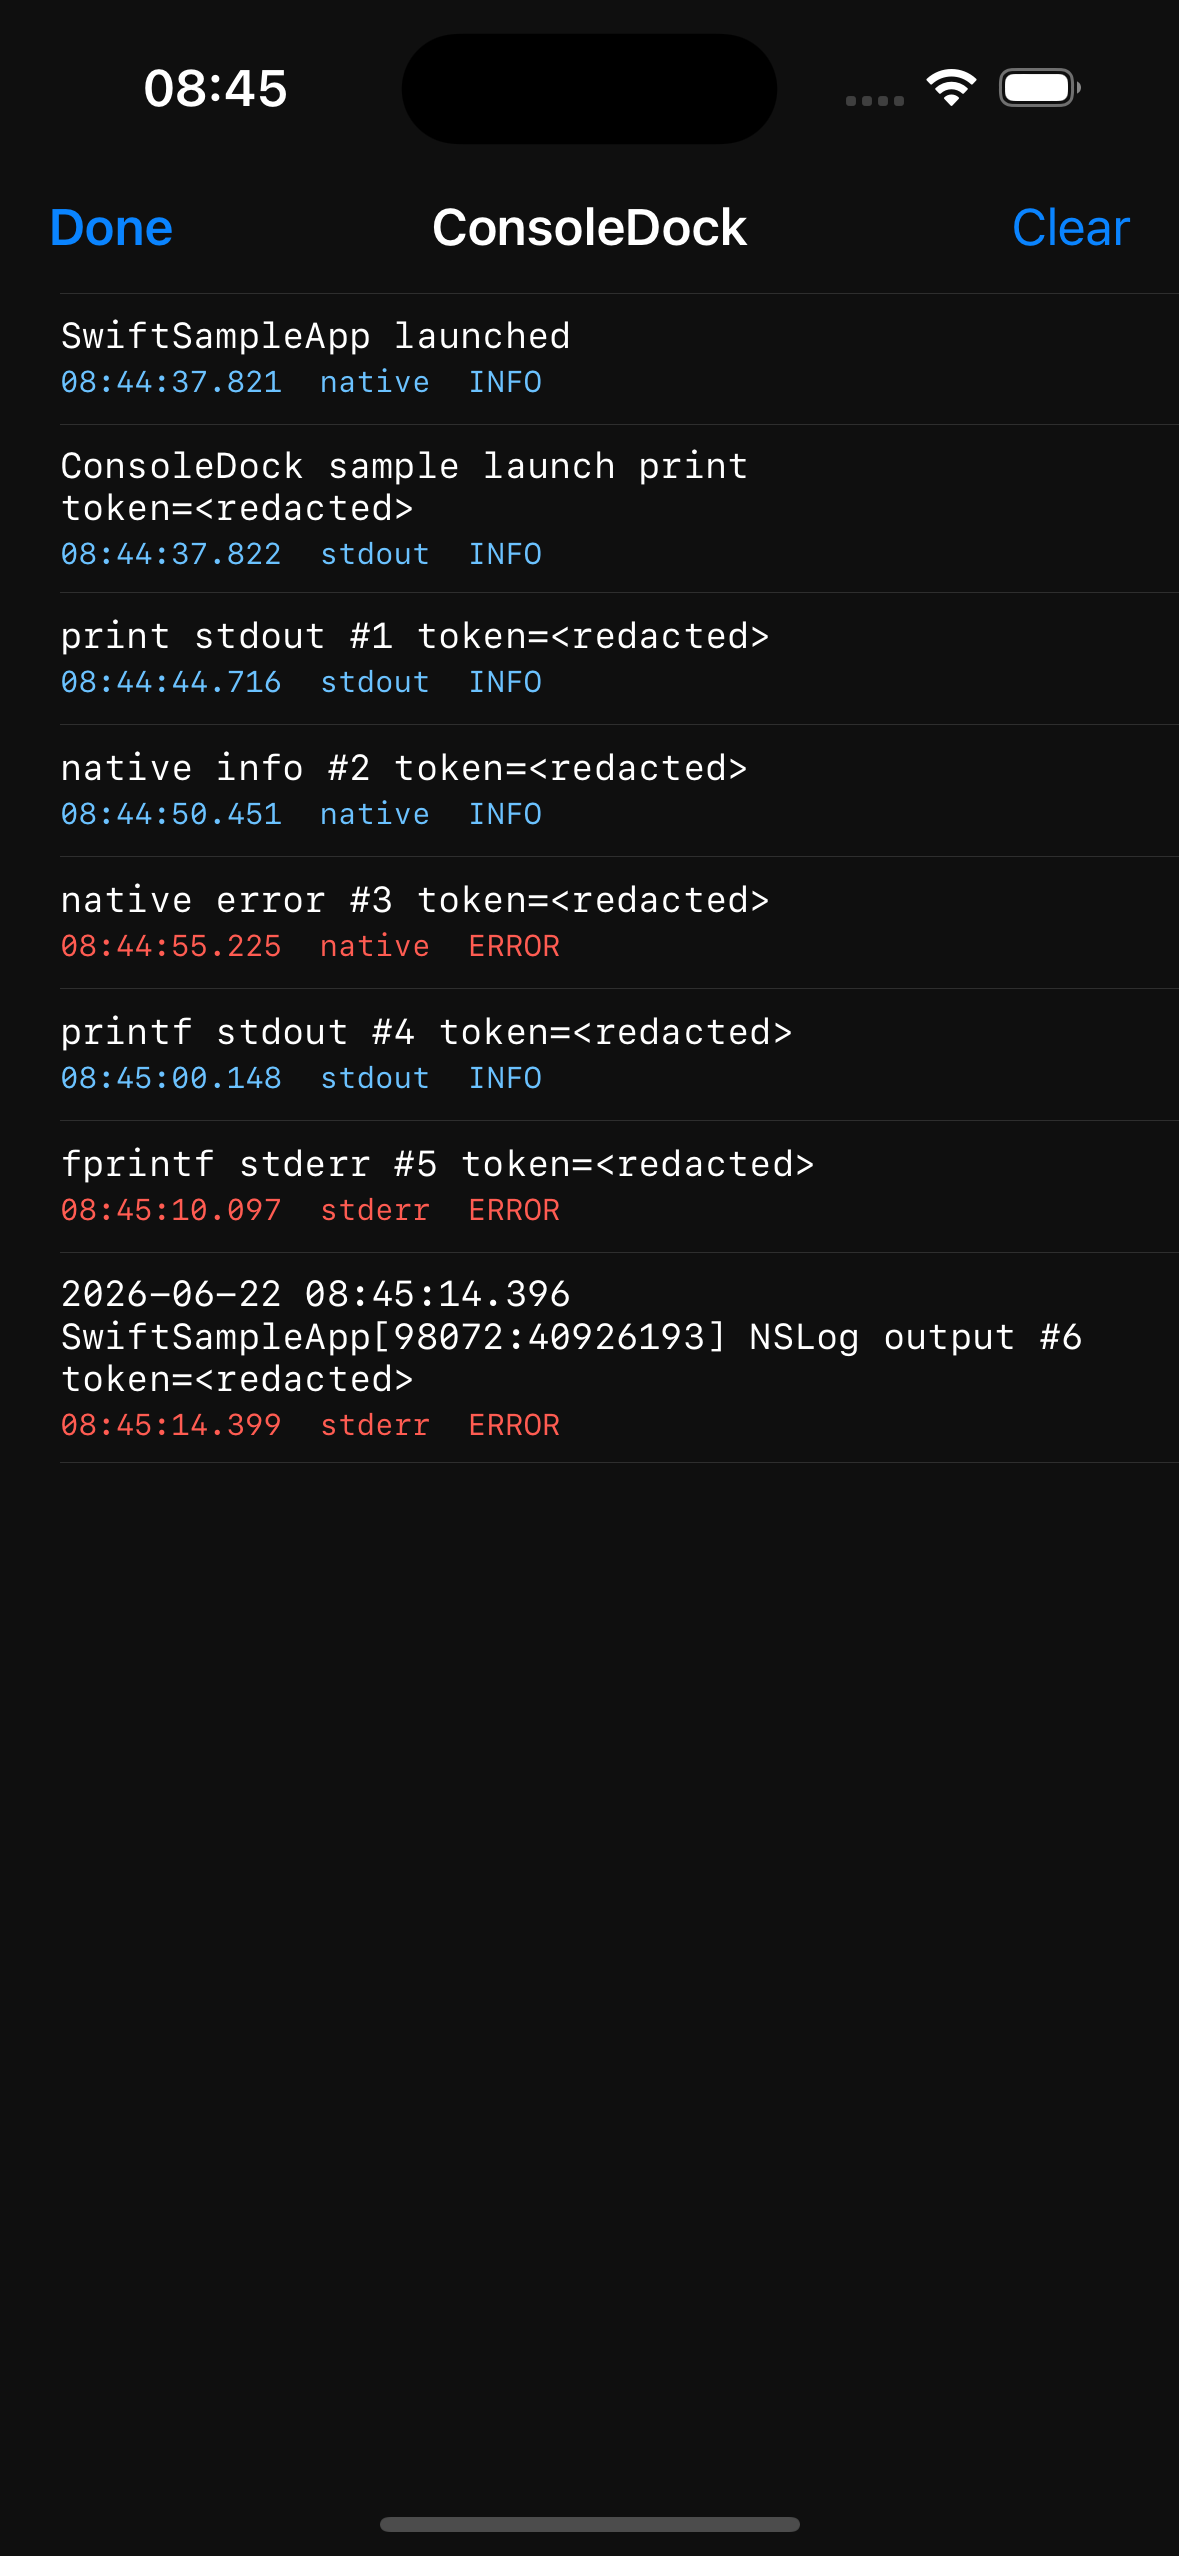
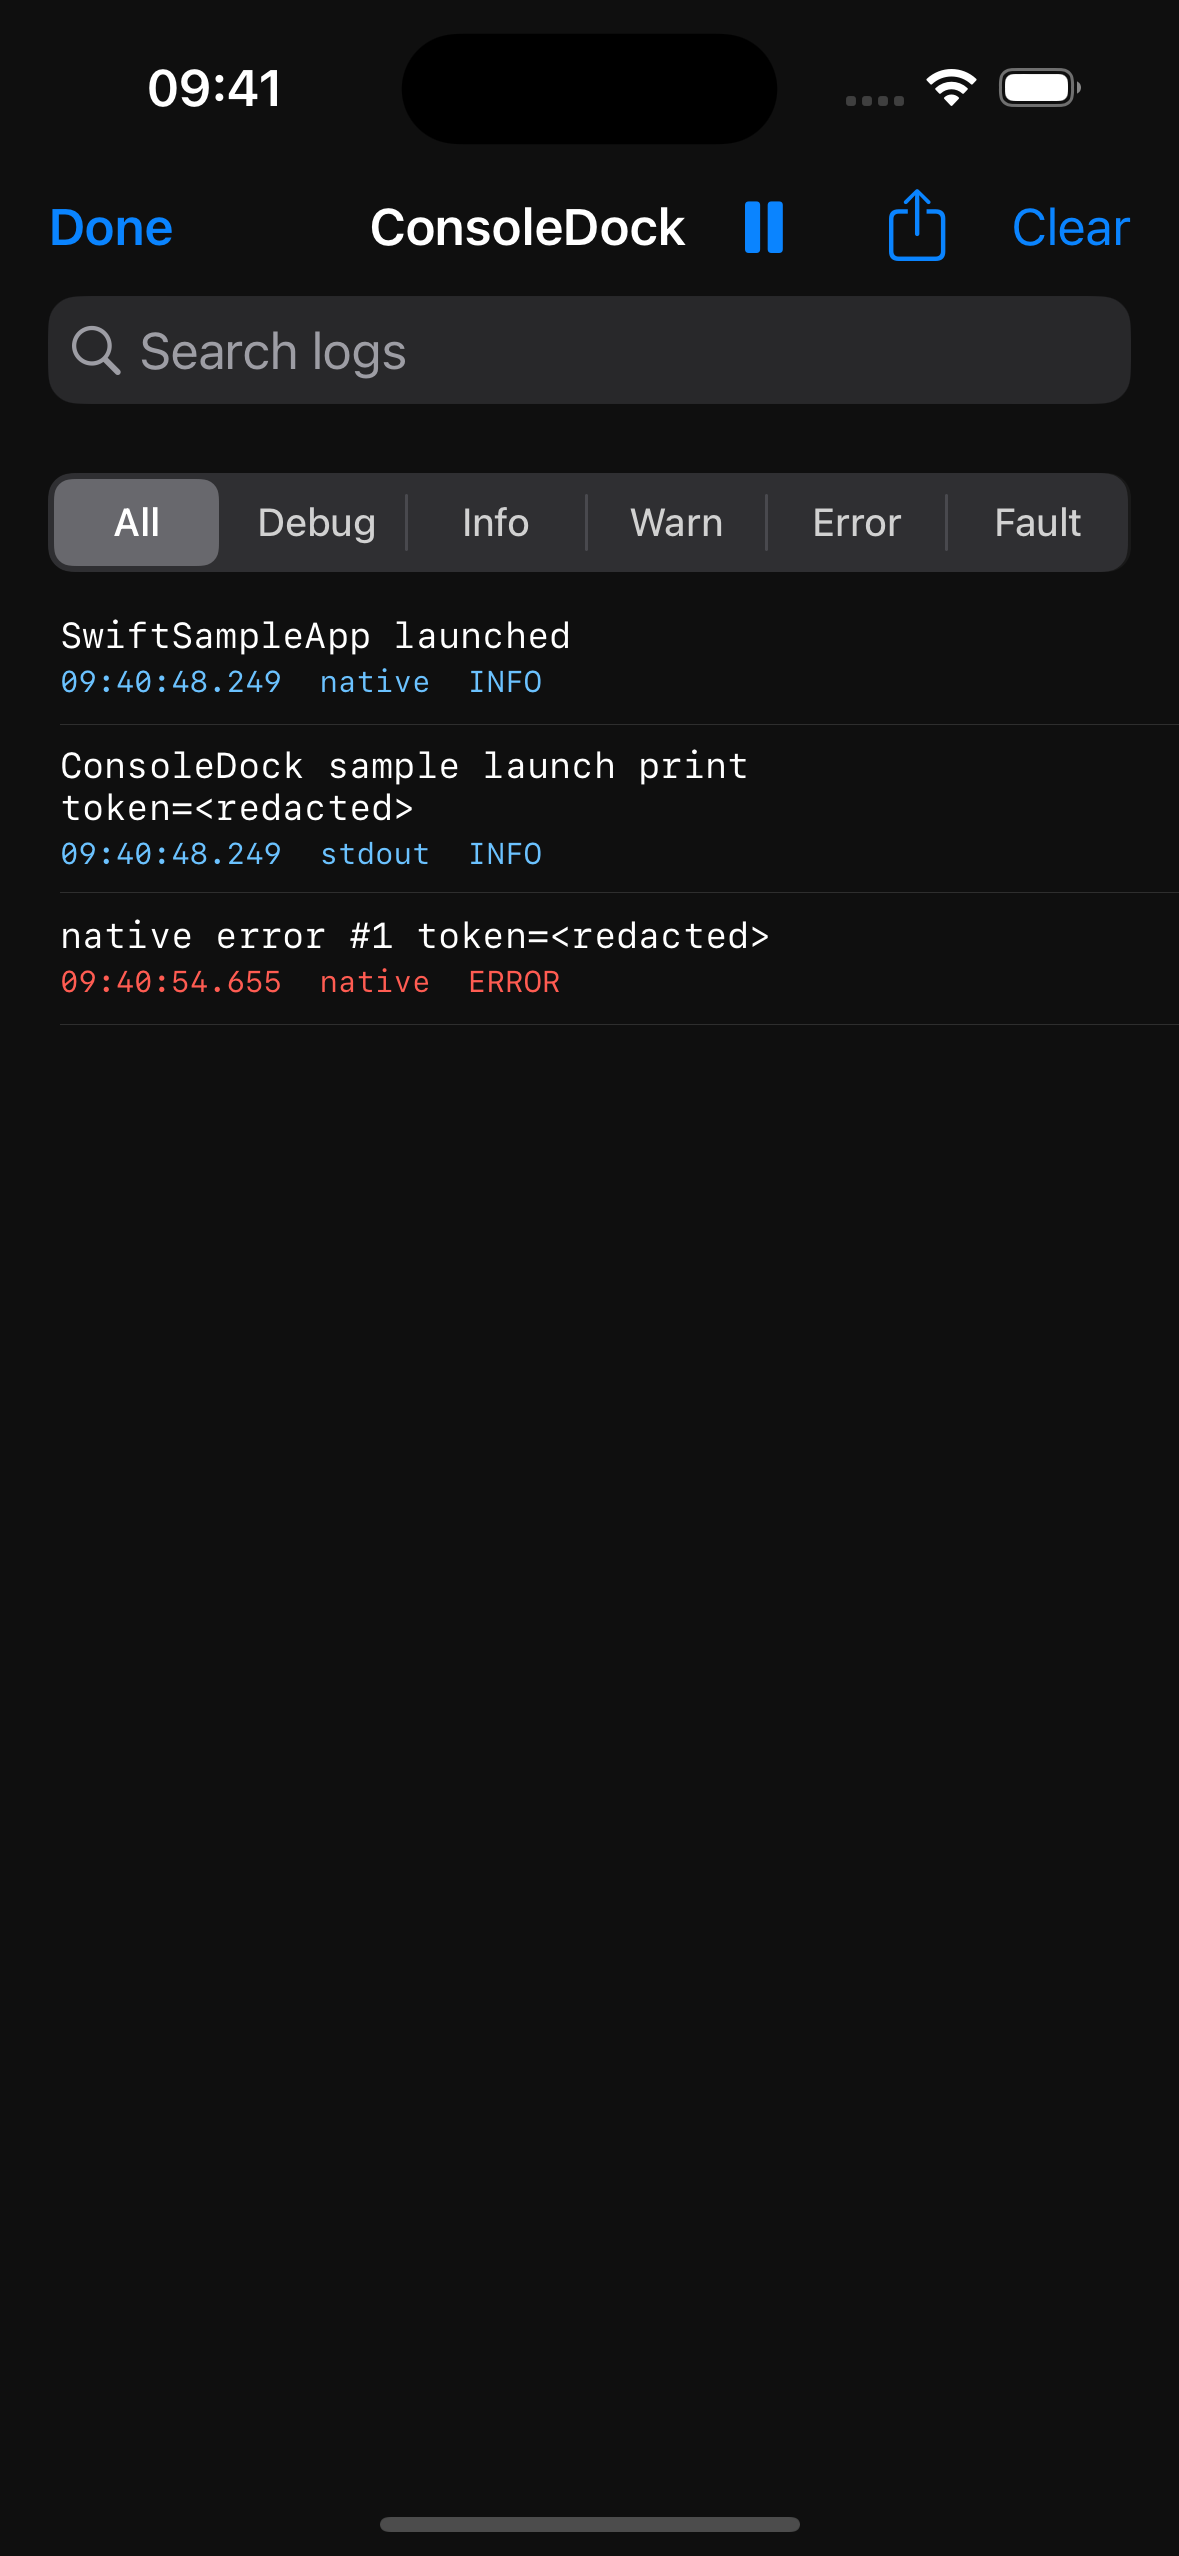
feat: filter console entries by level

diff --git a/Tests/ConsoleDockTests/ConsoleDockTests.swift b/Tests/ConsoleDockTests/ConsoleDockTests.swift
@@ -170,7 +170,13 @@ final class ConsoleDockTests: XCTestCase {
 
         let filtered = ConsoleDockEntryFilter.filteredEntries(entries, query: "  ")
 
-        XCTAssertEqual(filtered.map(\.message), ["Native login succeeded", "stdout response", "stderr network failure"])
+        XCTAssertEqual(filtered.map(\.message), [
+            "Native login succeeded",
+            "stdout response",
+            "stderr network failure",
+            "cache warning",
+            "fatal fault"
+        ])
     }
 
     func testEntryFilterMatchesMessageLevelAndSourceCaseInsensitively() {
@@ -203,6 +209,46 @@ final class ConsoleDockTests: XCTestCase {
         )
     }
 
+    func testEntryFilterRestrictsLevelScope() {
+        let entries = filterFixtureEntries()
+
+        XCTAssertEqual(
+            ConsoleDockEntryFilter.filteredEntries(entries, query: "", levelScope: .warning).map(\.message),
+            ["cache warning"]
+        )
+        XCTAssertEqual(
+            ConsoleDockEntryFilter.filteredEntries(entries, query: "", levelScope: .fault).map(\.message),
+            ["fatal fault"]
+        )
+        XCTAssertEqual(
+            ConsoleDockEntryFilter.filteredEntries(entries, query: "network", levelScope: .debug).map(\.message),
+            []
+        )
+    }
+
+    func testEntryFilterCombinesQuerySourceAndLevelScope() {
+        let entries = filterFixtureEntries()
+
+        XCTAssertEqual(
+            ConsoleDockEntryFilter.filteredEntries(
+                entries,
+                query: "network",
+                sourceScope: .stderr,
+                levelScope: .error
+            ).map(\.message),
+            ["stderr network failure"]
+        )
+        XCTAssertEqual(
+            ConsoleDockEntryFilter.filteredEntries(
+                entries,
+                query: "network",
+                sourceScope: .stderr,
+                levelScope: .warning
+            ).map(\.message),
+            []
+        )
+    }
+
     func testLiveUpdateBufferFreezesDisplayedEntriesWhilePaused() {
         var buffer = ConsoleDockLiveUpdateBuffer()
         let initialEntries = [filterFixtureEntries()[0]]
@@ -231,7 +277,9 @@ final class ConsoleDockTests: XCTestCase {
         XCTAssertEqual(buffer.displayedEntries.map(\.message), [
             "Native login succeeded",
             "stdout response",
-            "stderr network failure"
+            "stderr network failure",
+            "cache warning",
+            "fatal fault"
         ])
     }
 
@@ -363,6 +411,18 @@ private extension ConsoleDockTests {
                 level: .error,
                 source: .stderr,
                 message: "stderr network failure"
+            ),
+            ConsoleDock.LogEntry(
+                timestamp: Date(timeIntervalSince1970: 4),
+                level: .warning,
+                source: .native,
+                message: "cache warning"
+            ),
+            ConsoleDock.LogEntry(
+                timestamp: Date(timeIntervalSince1970: 5),
+                level: .fault,
+                source: .native,
+                message: "fatal fault"
             )
         ]
     }

diff --git a/Sources/ConsoleDock/ConsoleDockEntryFilter.swift b/Sources/ConsoleDock/ConsoleDockEntryFilter.swift
@@ -33,15 +33,59 @@ struct ConsoleDockEntryFilter {
         }
     }
 
+    enum LevelScope: Int, CaseIterable {
+        case all
+        case debug
+        case info
+        case warning
+        case error
+        case fault
+
+        var title: String {
+            switch self {
+            case .all:
+                return "All"
+            case .debug:
+                return "Debug"
+            case .info:
+                return "Info"
+            case .warning:
+                return "Warn"
+            case .error:
+                return "Error"
+            case .fault:
+                return "Fault"
+            }
+        }
+
+        func contains(_ level: ConsoleDock.LogLevel) -> Bool {
+            switch (self, level) {
+            case (.all, _),
+                 (.debug, .debug),
+                 (.info, .info),
+                 (.warning, .warning),
+                 (.error, .error),
+                 (.fault, .fault):
+                return true
+            default:
+                return false
+            }
+        }
+    }
+
     static func filteredEntries(
         _ entries: [ConsoleDock.LogEntry],
         query: String,
-        sourceScope: SourceScope = .all
+        sourceScope: SourceScope = .all,
+        levelScope: LevelScope = .all
     ) -> [ConsoleDock.LogEntry] {
         let trimmedQuery = query.trimmingCharacters(in: .whitespacesAndNewlines)
 
         return entries.filter { entry in
             guard sourceScope.contains(entry.source) else {
+                return false
+            }
+            guard levelScope.contains(entry.level) else {
                 return false
             }
             guard !trimmedQuery.isEmpty else {

diff --git a/Sources/ConsoleDock/ConsoleDockUIController.swift b/Sources/ConsoleDock/ConsoleDockUIController.swift
@@ -205,10 +205,14 @@ private final class ConsoleDockPanelViewController: UIViewController, UITableVie
 
     private let tableView = UITableView(frame: .zero, style: .plain)
     private let searchController = UISearchController(searchResultsController: nil)
+    private let levelSegmentedControl = UISegmentedControl(
+        items: ConsoleDockEntryFilter.LevelScope.allCases.map(\.title)
+    )
     private var liveUpdateBuffer = ConsoleDockLiveUpdateBuffer()
     private var visibleEntries: [ConsoleDock.LogEntry] = []
     private var searchQuery = ""
     private var sourceScope = ConsoleDockEntryFilter.SourceScope.all
+    private var levelScope = ConsoleDockEntryFilter.LevelScope.all
     private var observer: ConsoleDockEntriesObserver?
     private var pauseButton: UIBarButtonItem?
     private var shareButton: UIBarButtonItem?
@@ -225,6 +229,7 @@ private final class ConsoleDockPanelViewController: UIViewController, UITableVie
         view.backgroundColor = UIColor(white: 0.06, alpha: 1)
         configureNavigationItems()
         configureSearchController()
+        configureLevelSegmentedControl()
         configureTableView()
         observer = ConsoleDockEntriesObserver(deliveryQueue: .main) { [weak self] snapshot in
             self?.receive(snapshot: snapshot)
@@ -273,6 +278,16 @@ private final class ConsoleDockPanelViewController: UIViewController, UITableVie
         definesPresentationContext = true
     }
 
+    private func configureLevelSegmentedControl() {
+        levelSegmentedControl.translatesAutoresizingMaskIntoConstraints = false
+        levelSegmentedControl.selectedSegmentIndex = ConsoleDockEntryFilter.LevelScope.all.rawValue
+        levelSegmentedControl.backgroundColor = UIColor(white: 0.1, alpha: 1)
+        levelSegmentedControl.setTitleTextAttributes([.foregroundColor: UIColor.white], for: .selected)
+        levelSegmentedControl.setTitleTextAttributes([.foregroundColor: UIColor(white: 0.82, alpha: 1)], for: .normal)
+        levelSegmentedControl.addTarget(self, action: #selector(levelScopeDidChange), for: .valueChanged)
+        view.addSubview(levelSegmentedControl)
+    }
+
     private func configureTableView() {
         tableView.translatesAutoresizingMaskIntoConstraints = false
         tableView.backgroundColor = UIColor(white: 0.06, alpha: 1)
@@ -284,9 +299,13 @@ private final class ConsoleDockPanelViewController: UIViewController, UITableVie
         view.addSubview(tableView)
 
         NSLayoutConstraint.activate([
+            levelSegmentedControl.leadingAnchor.constraint(equalTo: view.layoutMarginsGuide.leadingAnchor),
+            levelSegmentedControl.trailingAnchor.constraint(equalTo: view.layoutMarginsGuide.trailingAnchor),
+            levelSegmentedControl.topAnchor.constraint(equalTo: view.safeAreaLayoutGuide.topAnchor, constant: 8),
+            levelSegmentedControl.heightAnchor.constraint(equalToConstant: 32),
             tableView.leadingAnchor.constraint(equalTo: view.leadingAnchor),
             tableView.trailingAnchor.constraint(equalTo: view.trailingAnchor),
-            tableView.topAnchor.constraint(equalTo: view.topAnchor),
+            tableView.topAnchor.constraint(equalTo: levelSegmentedControl.bottomAnchor, constant: 8),
             tableView.bottomAnchor.constraint(equalTo: view.bottomAnchor)
         ])
     }
@@ -301,7 +320,8 @@ private final class ConsoleDockPanelViewController: UIViewController, UITableVie
         visibleEntries = ConsoleDockEntryFilter.filteredEntries(
             liveUpdateBuffer.displayedEntries,
             query: searchQuery,
-            sourceScope: sourceScope
+            sourceScope: sourceScope,
+            levelScope: levelScope
         )
         shareButton?.isEnabled = !visibleEntries.isEmpty
         tableView.reloadData()
@@ -366,6 +386,11 @@ private final class ConsoleDockPanelViewController: UIViewController, UITableVie
 
     func searchBar(_ searchBar: UISearchBar, selectedScopeButtonIndexDidChange selectedScope: Int) {
         sourceScope = ConsoleDockEntryFilter.SourceScope(rawValue: selectedScope) ?? .all
+        reloadVisibleEntries(scrollToBottom: false)
+    }
+
+    @objc private func levelScopeDidChange() {
+        levelScope = ConsoleDockEntryFilter.LevelScope(rawValue: levelSegmentedControl.selectedSegmentIndex) ?? .all
         reloadVisibleEntries(scrollToBottom: false)
     }
 

diff --git a/docs/sample-app-walkthrough.md b/docs/sample-app-walkthrough.md
@@ -10,7 +10,7 @@ Use the samples to verify:
 - explicit native logging APIs;
 - `NSLog` output that reaches process stderr;
 - redaction before storage;
-- UIKit floating button, search, source filtering, pause/resume live follow, selected-entry copy, panel refresh, share/export, clear, stop, and restart behavior.
+- UIKit floating button, search, source and level filtering, pause/resume live follow, selected-entry copy, panel refresh, share/export, clear, stop, and restart behavior.
 
 ![ConsoleDock Swift sample console](assets/swift-sample-console.png)
 
@@ -36,13 +36,14 @@ Manual check:
 5. Confirm generated `token=...` values are stored as `token=<redacted>`.
 6. Search for `stderr` or `token` and confirm the visible list filters without changing stored entries.
 7. Change the source scope to `stdout` or `stderr` and confirm only matching entries remain visible.
-8. Tap the pause button, generate another message from the sample, and confirm the visible list does not auto-refresh.
-9. Tap the play/resume button and confirm the panel catches up to the latest stored entries.
-10. Tap a visible log row and confirm the selected redacted entry is copied to the clipboard.
-11. Tap the share button and confirm the system share sheet opens with a plain-text redacted log snapshot for the visible entries.
-12. Tap `Clear` in the panel and confirm the list refreshes.
-13. Tap `Stop ConsoleDock`, generate another message, and confirm it is not stored.
-14. Tap `Start ConsoleDock`, generate another message, and confirm entries resume.
+8. Change the level scope to `Info` or `Error` and confirm only matching entries remain visible.
+9. Tap the pause button, generate another message from the sample, and confirm the visible list does not auto-refresh.
+10. Tap the play/resume button and confirm the panel catches up to the latest stored entries.
+11. Tap a visible log row and confirm the selected redacted entry is copied to the clipboard.
+12. Tap the share button and confirm the system share sheet opens with a plain-text redacted log snapshot for the visible entries.
+13. Tap `Clear` in the panel and confirm the list refreshes.
+14. Tap `Stop ConsoleDock`, generate another message, and confirm it is not stored.
+15. Tap `Start ConsoleDock`, generate another message, and confirm entries resume.
 
 Expected sources:
 
@@ -73,13 +74,14 @@ Manual check:
 5. Confirm generated `token=...` values are stored as `token=<redacted>`.
 6. Search for `stderr` or `token` and confirm the visible list filters without changing stored entries.
 7. Change the source scope to `stdout` or `stderr` and confirm only matching entries remain visible.
-8. Tap the pause button, generate another message from the sample, and confirm the visible list does not auto-refresh.
-9. Tap the play/resume button and confirm the panel catches up to the latest stored entries.
-10. Tap a visible log row and confirm the selected redacted entry is copied to the clipboard.
-11. Tap the share button and confirm the system share sheet opens with a plain-text redacted log snapshot for the visible entries.
-12. Tap `Clear` in the panel and confirm the list refreshes.
-13. Tap `Stop ConsoleDock`, generate another message, and confirm it is not stored.
-14. Tap `Start ConsoleDock`, generate another message, and confirm entries resume.
+8. Change the level scope to `Info` or `Error` and confirm only matching entries remain visible.
+9. Tap the pause button, generate another message from the sample, and confirm the visible list does not auto-refresh.
+10. Tap the play/resume button and confirm the panel catches up to the latest stored entries.
+11. Tap a visible log row and confirm the selected redacted entry is copied to the clipboard.
+12. Tap the share button and confirm the system share sheet opens with a plain-text redacted log snapshot for the visible entries.
+13. Tap `Clear` in the panel and confirm the list refreshes.
+14. Tap `Stop ConsoleDock`, generate another message, and confirm it is not stored.
+15. Tap `Start ConsoleDock`, generate another message, and confirm entries resume.
 
 Expected sources:
 
@@ -95,7 +97,7 @@ Run from Xcode or launch normally through Simulator when checking integration be
 
 Swift `Logger`, `os_log`, and Apple unified logging are not validated by these samples because ConsoleDock does not promise complete zero-intrusion capture of those systems.
 
-Search and source filtering only affect the visible list and the share sheet's exported snapshot. ConsoleDock does not delete or mutate stored entries when a filter is active.
+Search, source filtering, and level filtering only affect the visible list and the share sheet's exported snapshot. ConsoleDock does not delete or mutate stored entries when a filter is active.
 
 Pause/resume only affects live UI follow. ConsoleDock continues capturing and storing entries while the panel is paused.
 

diff --git a/README.md b/README.md
@@ -16,8 +16,8 @@ Current limitations:
 - Direct descriptor writes and flushed C stdio output can be captured; unflushed `printf` / `fprintf` output depends on standard stream buffering.
 - File-descriptor capture can include framework or runtime warnings written through the app process descriptors, not only application-authored messages.
 - Entry change notification exists as the refresh foundation for UI; notification handlers should fetch a snapshot through `entries`.
-- The UIKit floating button and console panel foundation can show, search, source-filter, pause/resume live follow, live refresh, selected-entry copy, clear, share/export, and close the current in-memory snapshot.
-- Persistence, advanced level filtering, and advanced query syntax are not implemented yet.
+- The UIKit floating button and console panel foundation can show, search, source-filter, level-filter, pause/resume live follow, live refresh, selected-entry copy, clear, share/export, and close the current in-memory snapshot.
+- Persistence and advanced query syntax are not implemented yet.
 - Third-party adapters, CocoaPods, and XCFramework distribution are not implemented yet.
 - Redaction is a local in-memory baseline, not a complete privacy guarantee.
 

diff --git a/docs/specs/2026-06-22-mvp-architecture.md b/docs/specs/2026-06-22-mvp-architecture.md
@@ -370,7 +370,7 @@ The capture core must be idempotent:
 | Capture | `NSLog` | Captured only on supported runtime paths that write through process stderr; documentation avoids complete-coverage claims. |
 | Restoration | start then stop | stdout and stderr are restored and later writes bypass ConsoleDock. |
 | Lifecycle | repeated start/stop | No stacked redirects, crashes, or leaked descriptors. |
-| UI | floating button and console panel | UI appears in Debug, opens, searches, source-filters, pauses/resumes live follow, live-updates, copies a selected redacted entry, clears, closes, displays redacted entries, and can share/export the current visible redacted snapshot. Advanced filtering is later developer-experience work. |
+| UI | floating button and console panel | UI appears in Debug, opens, searches, source-filters, level-filters, pauses/resumes live follow, live-updates, copies a selected redacted entry, clears, closes, displays redacted entries, and can share/export the current visible redacted snapshot. Advanced query syntax is later developer-experience work. |
 | Build policy | Release/default disabled | `start()` returns disabled, no UI appears, and descriptors are not redirected. |
 | Build policy | explicit enabled Release | Capture only starts when the explicit enable flag and configuration are present. |
 

diff --git a/CHANGELOG.md b/CHANGELOG.md
@@ -27,3 +27,4 @@ The project follows Semantic Versioning after public releases begin.
 - Added UIKit console text search and source filtering for the visible in-memory log list.
 - Added UIKit pause/resume live follow so the panel can freeze visible logs while capture continues.
 - Added UIKit selected-entry copy for visible redacted log rows.
+- Added UIKit log level filtering for visible entries, share/export snapshots, and selected-entry copy.